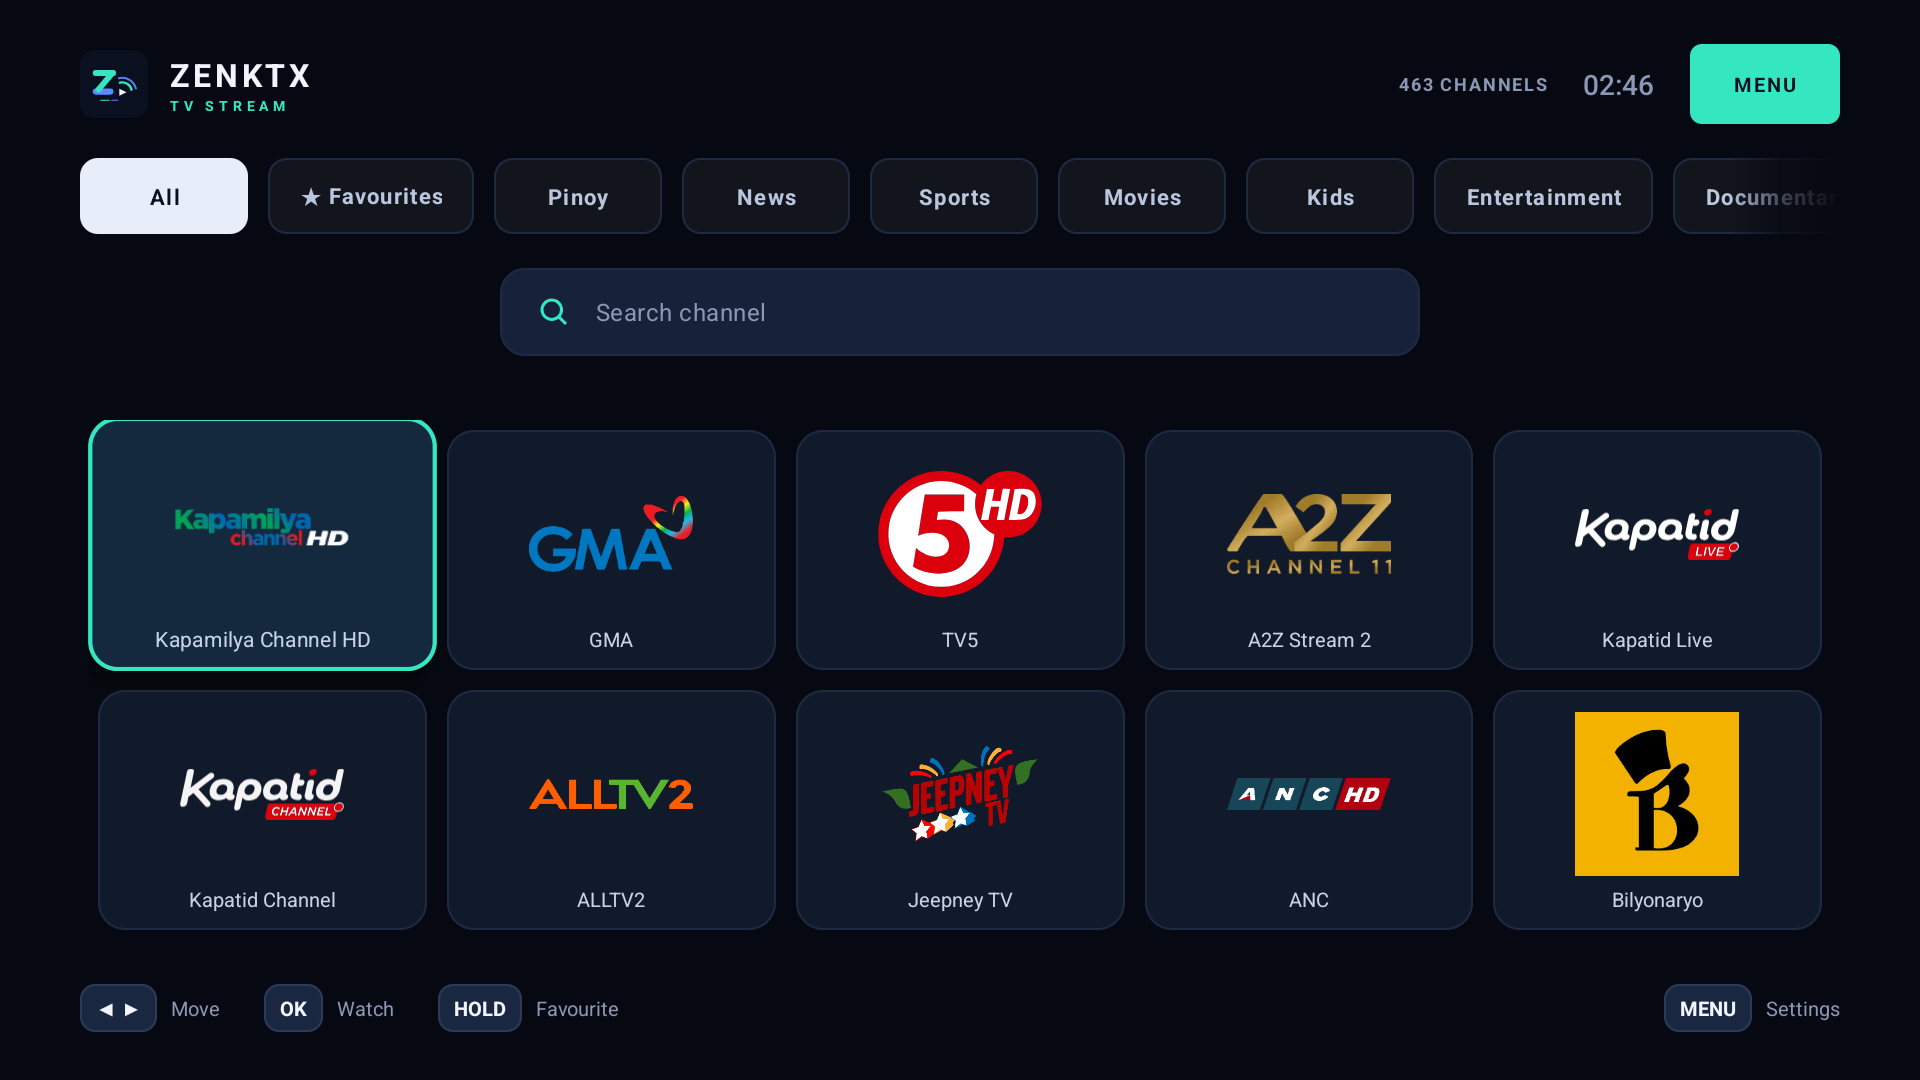
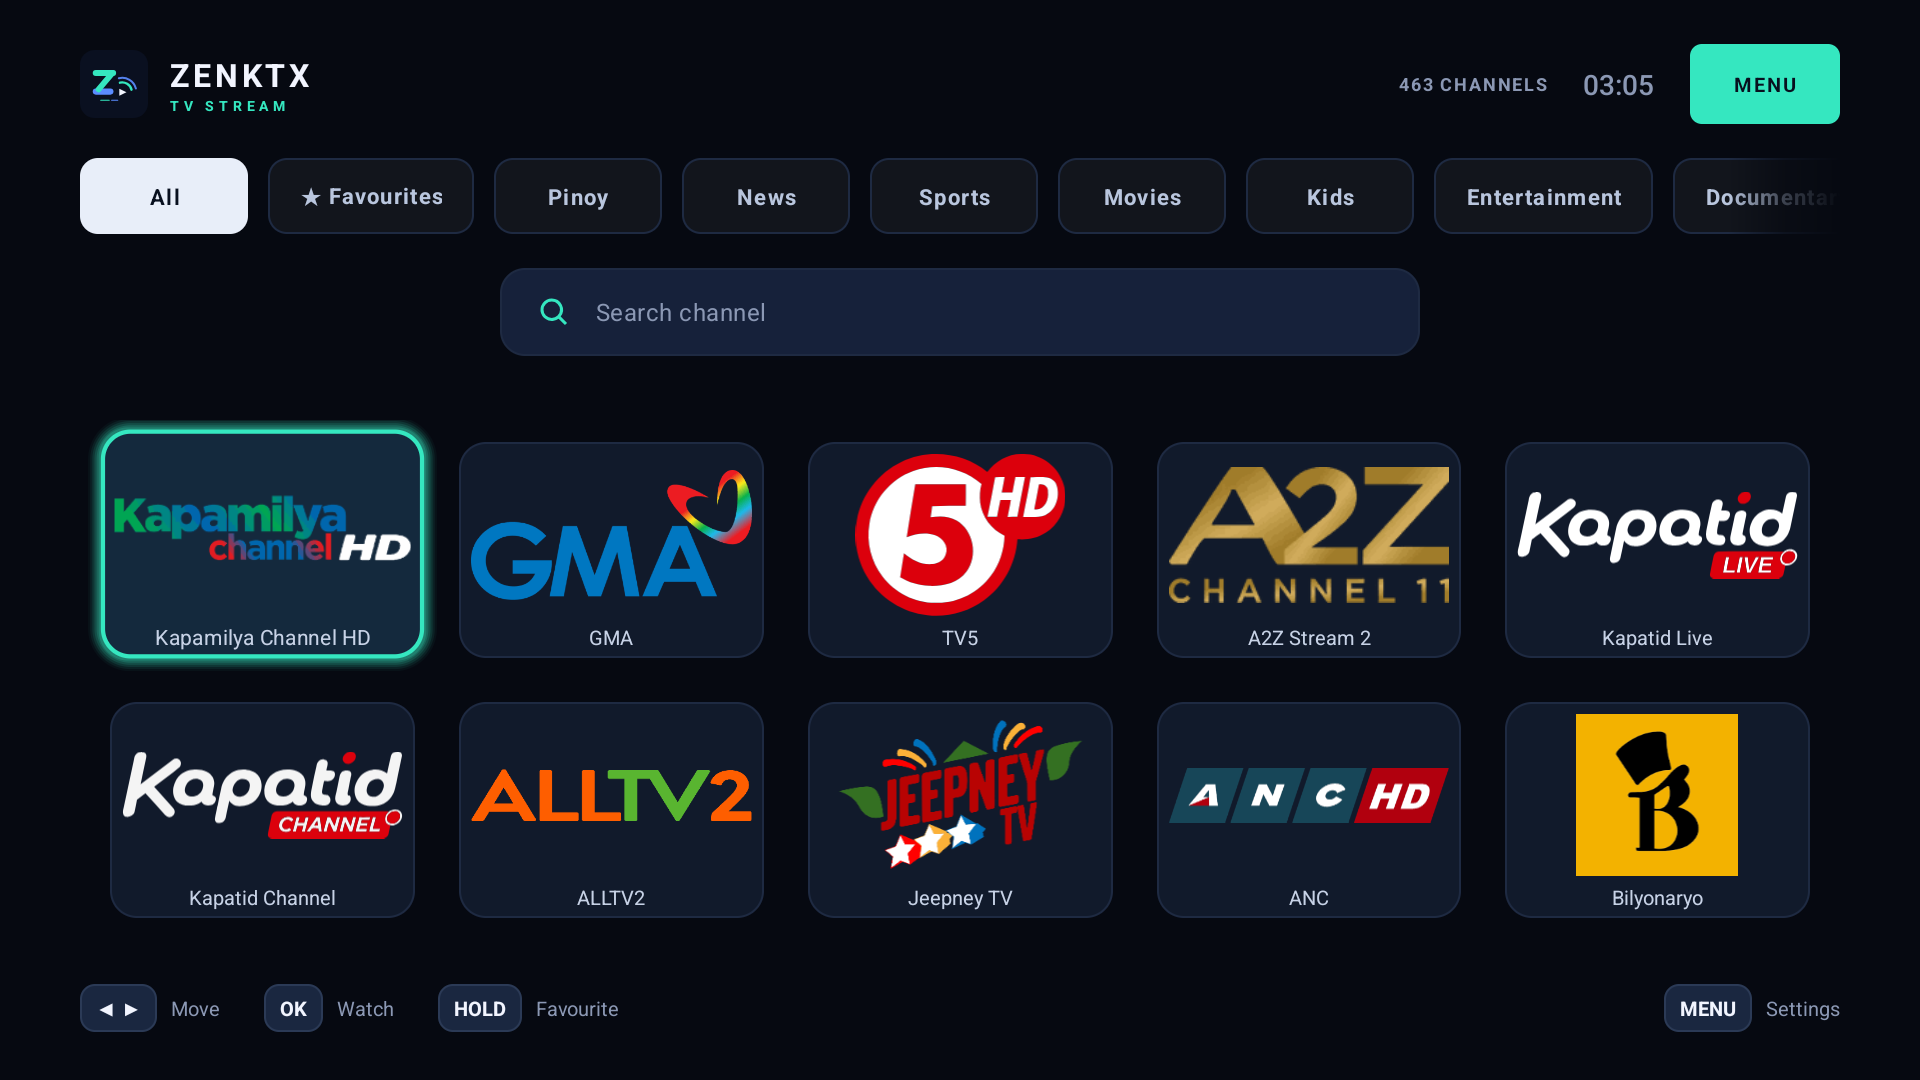
Let the artwork own the tile and light up the focused one
The logo sat in a fixed box with empty card on both sides, so every channel read
as a small stamp from the sofa; the image now takes the full width above the
name. Focus adds a mint halo built from six 1dp rings outside a 6dp-inset card,
because a gradient behind the card only shows its faintest rim. The phone keeps
its flush card through its own copy of the drawable.

Changed region(s): [[0.0312, 0.3667, 0.9688, 0.8861], [0.8438, 0.7028, 0.875, 0.7944], [0.8438, 0.0611, 0.875, 0.0917]]

diff --git a/docs/index.html b/docs/index.html
@@ -670,7 +670,16 @@
 
       <div class="log">
       <article class="entry">
-        <h3>1.5.5 <span class="tagx">latest</span></h3>
+        <h3>1.5.6 <span class="tagx">latest</span></h3>
+        <div class="meta">8 November 2026 · Android TV · Android mobile and Windows unchanged</div>
+        <ul>
+          <li><b>The artwork fills the tile.</b> The logo sat in a fixed box with a wide strip of empty card either side of it, which is why it read as a stamp on a 65″ screen. It now takes every pixel above the name, edge to edge, so a channel is recognised by its mark from across the room.</li>
+          <li><b>The highlighted tile has light under it.</b> Focus draws a soft mint halo that fades out from the frame — six 1dp rings outside an inset card, because a gradient behind the card only ever shows its faintest rim. The card is inset 6dp so it does not change size when focus moves.</li>
+        </ul>
+      </article>
+
+      <article class="entry">
+        <h3>1.5.5</h3>
         <div class="meta">8 November 2026 · Android TV · Android mobile and Windows unchanged</div>
         <ul>
           <li><b>Room above the first row.</b> The mint outline on a highlighted tile came within a hair of the search bar, because the grid sat 10dp under it and the tile lifts into that gap on focus. The gap is 18dp and the grid keeps 14dp of its own, so the ring now has air on every side; the cell is 120dp to keep two full rows on screen.</li>
@@ -710,16 +719,6 @@
         <li><b>Search sits under the categories.</b> The magnifier in the header opened a dialog, hid the results behind the keyboard and asked for a second tap before anything was found. On a phone the field is now a bar under the chips: type and the guide filters while you type, with the count, a clear button and the ✕ to empty it.</li>
         <li><b>The detail sheet is gone from the phone.</b> It took the bottom of the grid to repeat a name the tile already showed. A tap plays, and a long press on a tile adds or removes the favourite, so the star it held is still one gesture away.</li>
         <li><b>Smaller buttons over the picture.</b> The favourite star and the close ✕ in the phone player were 46dp, sized for a TV across the room. They are 38dp on a phone; the TV keeps its larger pair.</li>
-        </ul>
-      </article>
-
-      <article class="entry">
-        <h3>1.5.1</h3>
-        <div class="meta">7 November 2026 · Android TV · Android mobile · Windows</div>
-        <ul>
-        <li><b>The highlight follows the mouse.</b> On Windows the guide only moved its outline after a click, so the strip at the bottom answered to the last tile you pressed instead of the one under the pointer. Resting the cursor on a tile selects it now, and a click still opens the channel straight away.</li>
-        <li><b>Tonight's NBA games appear.</b> A game row is named “8:00am Wizards vs Hawks”, so nothing in the name says NBA — only its tags do. The guide tested the name alone and threw away every game the publisher added, which is why the other players listed a full night of basketball and this one listed none. It reads the tags now, on all three builds, so a game stream shows up within a minute of being published and leaves again when it is pulled.</li>
-        <li><b>Playlists is dark.</b> The dialog had no background of its own and fell back to the browser's white sheet, which lit up the whole window. It uses the same surface, edge and radius as the rest of the app.</li>
         </ul>
       </article>
 
@@ -763,8 +762,8 @@
   // fix no longer renames the Android build.
   // Each platform keeps the version of the release that last touched it: the
   // APK signing fix is Android-only, so Windows stays on 1.3.3.
-  const VERSIONS = { tv: "1.5.5", mobile: "1.5.5", win: "1.5.1" };
-  const TAGS = { tv: "v1.5.5", mobile: "v1.5.5", win: "v1.5.1" };
+  const VERSIONS = { tv: "1.5.6", mobile: "1.5.6", win: "1.5.1" };
+  const TAGS = { tv: "v1.5.6", mobile: "v1.5.6", win: "v1.5.1" };
 
   // Never build a download URL out of the numbers written on this page: a card
   // that says v1.3.4 while the release still holds v1.3.3 made every click a
